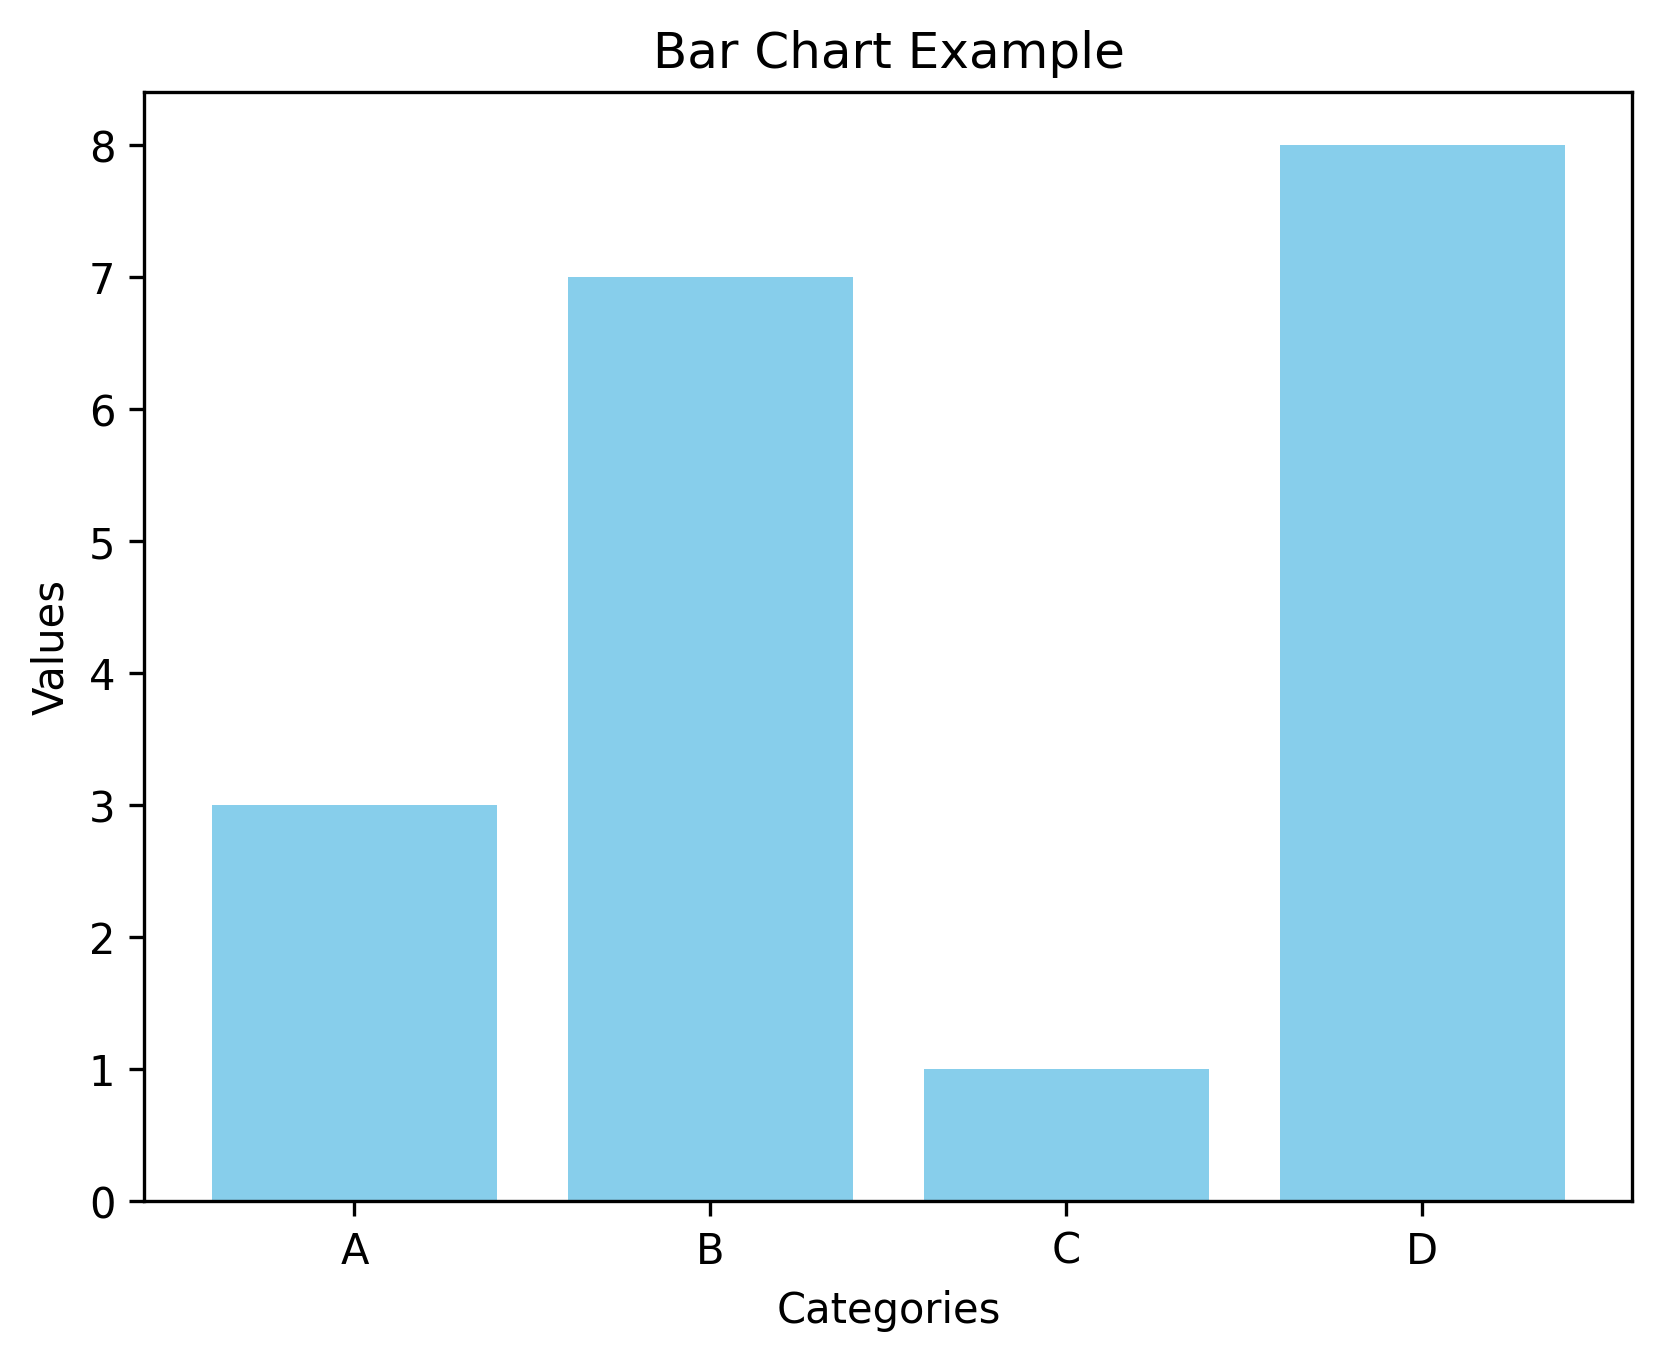
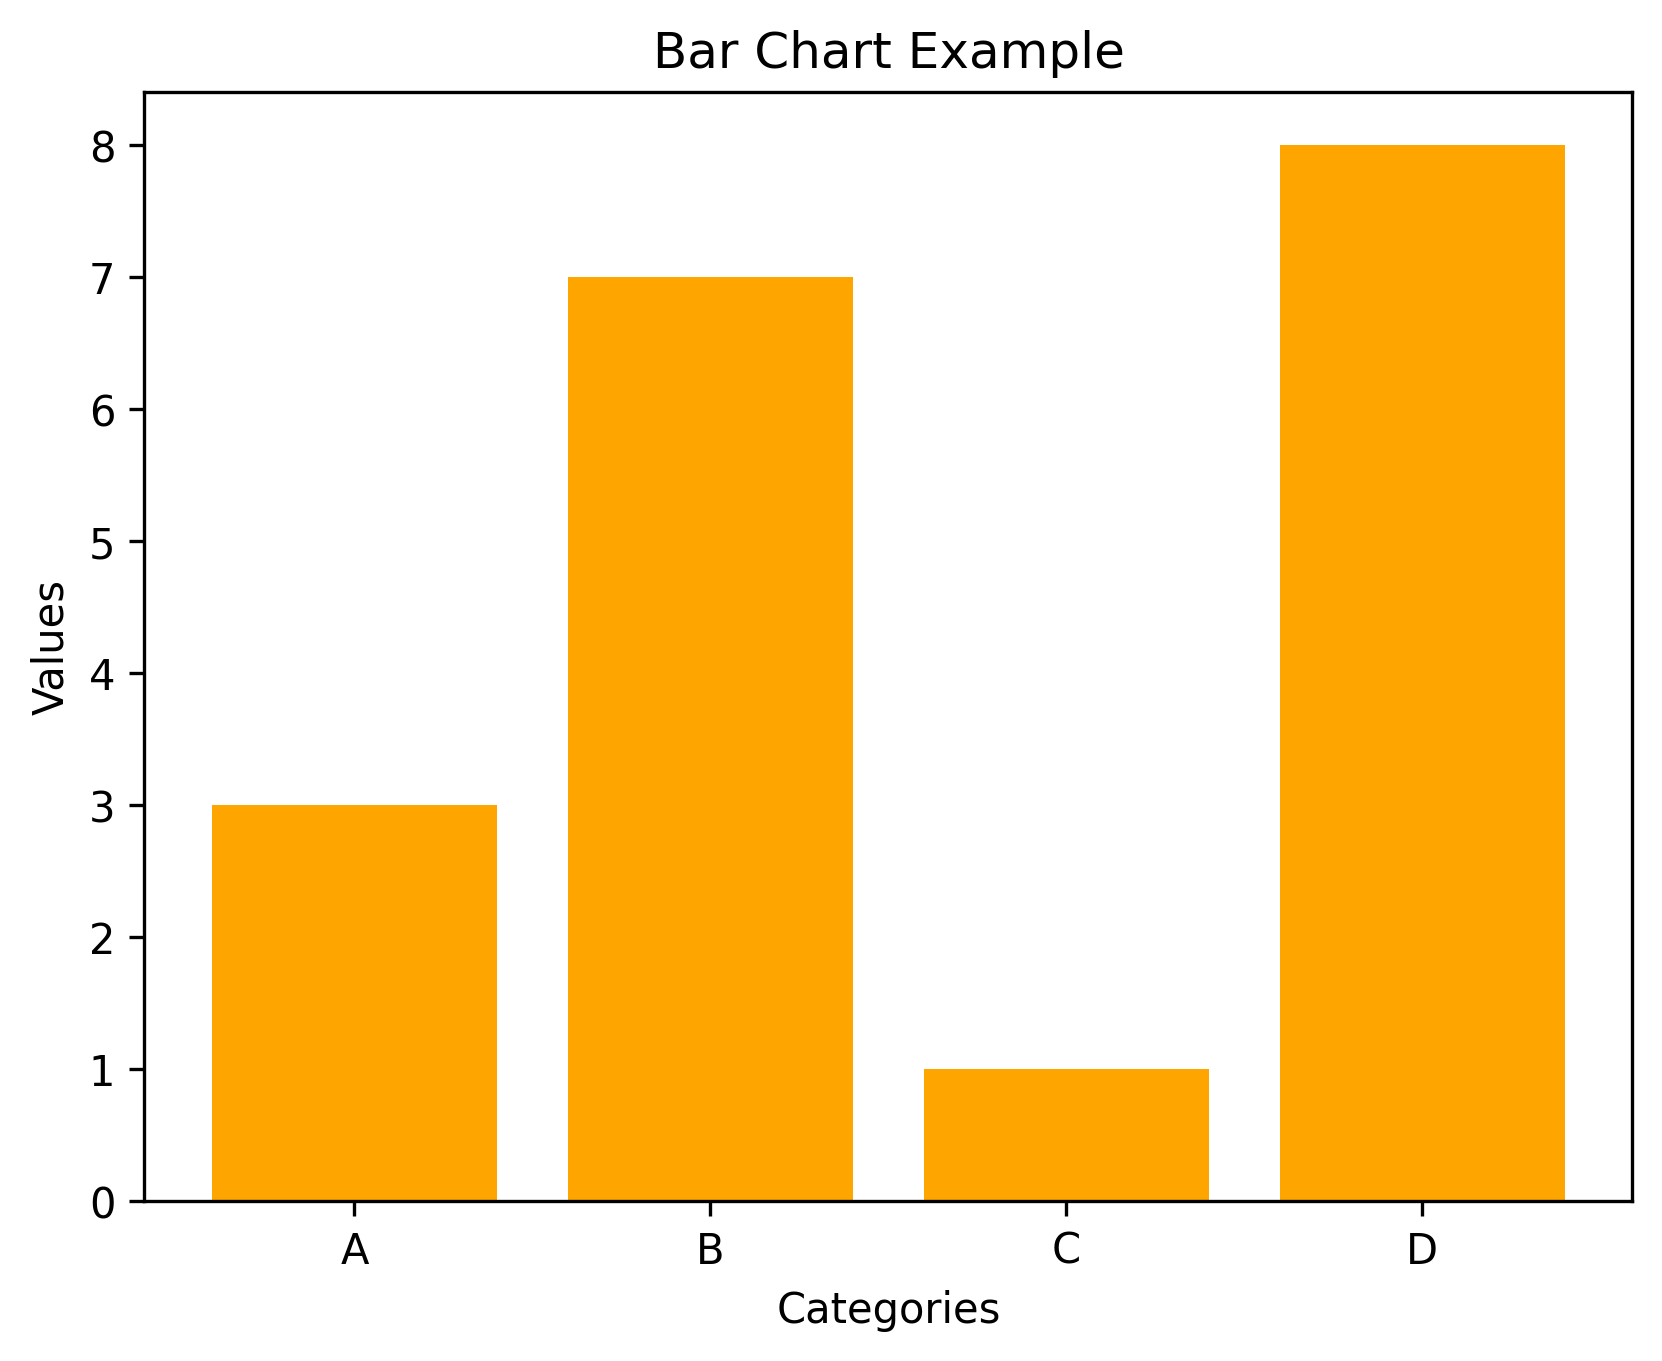
pie chart

diff --git a/week-9/pie-chart.py b/week-9/pie-chart.py
@@ -1,0 +1,14 @@
+import matplotlib.pyplot as plt
+
+# Data for the pie chart
+categories = ['A', 'B', 'C', 'D']
+values = [3, 7, 1, 8]
+
+# Create a pie chart
+plt.pie(values, labels=categories, autopct='%1.1f%%', startangle=90, colors=['orange', 'blue', 'green', 'red'])
+plt.title('Pie Chart Example')
+
+# Save the plot as an image file locally
+plt.savefig('pie_chart.png', dpi=300, bbox_inches='tight')
+
+plt.show()

diff --git a/week-9/bar-chart.py b/week-9/bar-chart.py
@@ -1,7 +1,7 @@
 import matplotlib.pyplot as plt
 categories = ['A', 'B', 'C', 'D']
 values = [3, 7, 1, 8]
-plt.bar(categories, values, color='skyblue')
+plt.bar(categories, values, color='orange')
 plt.xlabel('Categories')
 plt.ylabel('Values')
 plt.title('Bar Chart Example')
